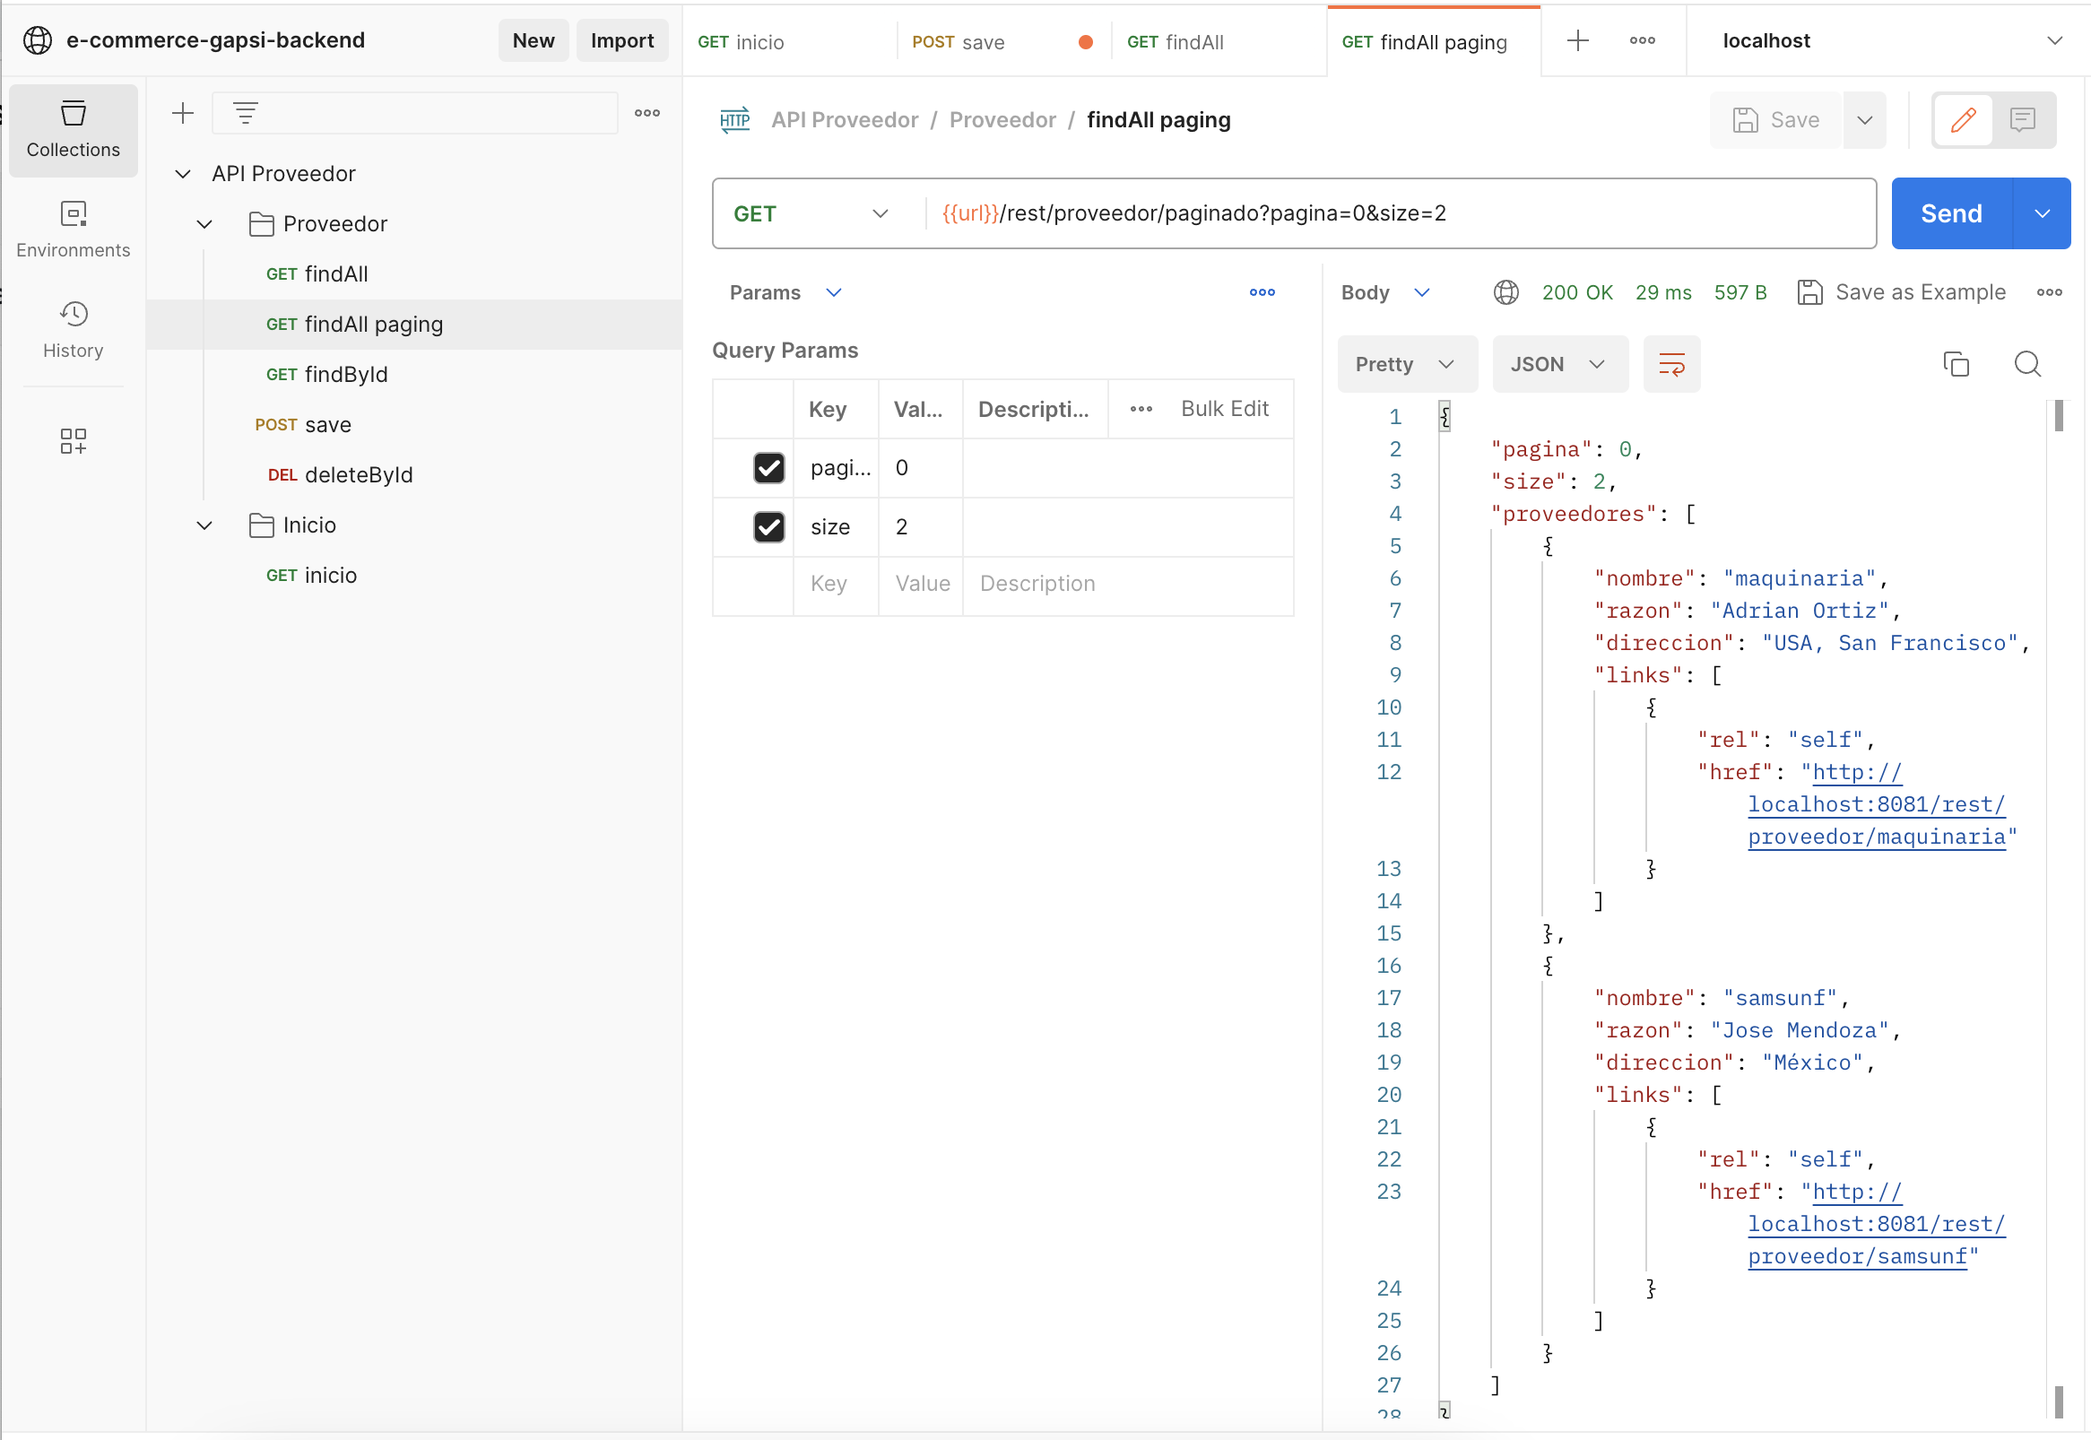
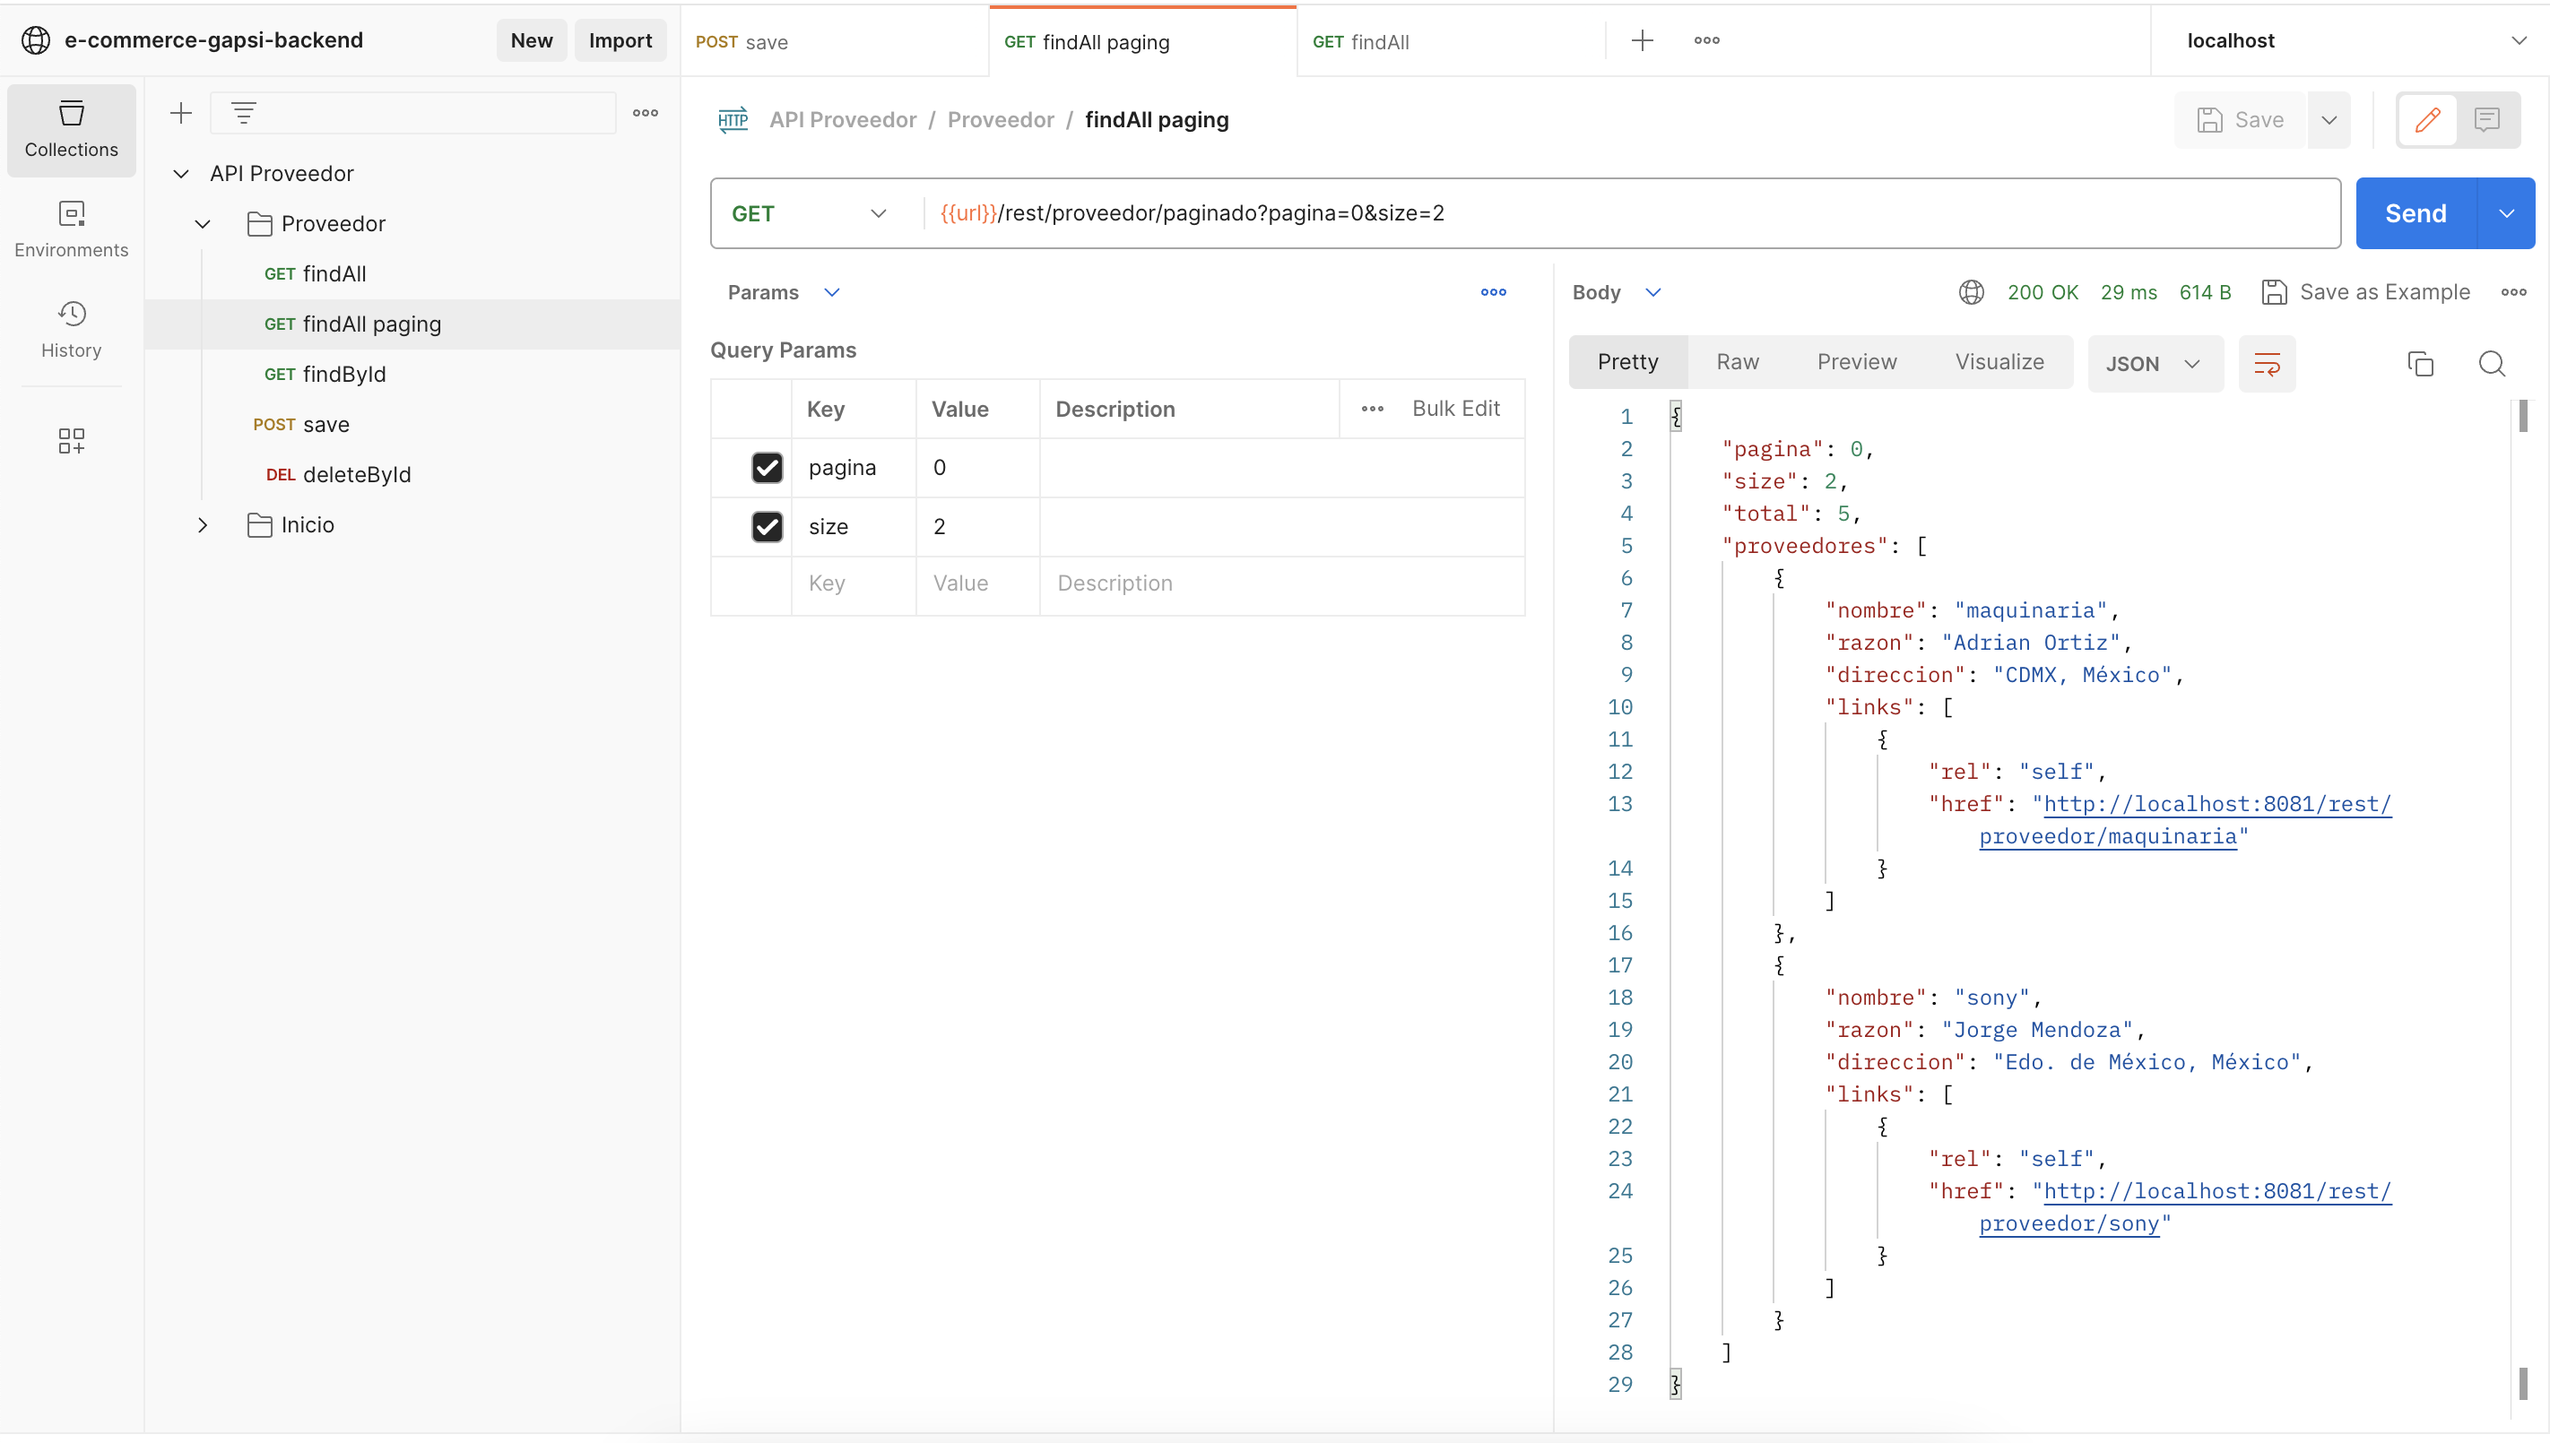
Add import data base and Total rows

diff --git a/src/main/java/com/gapsi/ecommerce/config/ReadJson.java b/src/main/java/com/gapsi/ecommerce/config/ReadJson.java
@@ -1,0 +1,56 @@
+package com.gapsi.ecommerce.config;
+
+import com.fasterxml.jackson.core.type.TypeReference;
+import com.fasterxml.jackson.databind.ObjectMapper;
+import com.gapsi.ecommerce.component.AppProperties;
+import com.gapsi.ecommerce.data.ProveedorData;
+import com.gapsi.ecommerce.domain.Proveedor;
+import com.gapsi.ecommerce.service.IService;
+import org.springframework.beans.factory.annotation.Autowired;
+import org.springframework.beans.factory.annotation.Value;
+import org.springframework.boot.CommandLineRunner;
+import org.springframework.context.annotation.Configuration;
+import org.springframework.core.env.Environment;
+import org.springframework.util.ResourceUtils;
+
+import java.io.File;
+import java.io.FileInputStream;
+import java.io.InputStream;
+import java.util.ArrayList;
+import java.util.List;
+
+@Configuration
+public class ReadJson implements CommandLineRunner {
+
+    @Autowired
+    AppProperties appProperties;
+
+    @Autowired
+    private IService<Proveedor> proveedorIService;
+
+    @Override
+    public void run(String... args) throws Exception {
+
+        if (proveedorIService.getTotalRows() == 0) {
+
+            try {
+                TypeReference<List<ProveedorData>> typeReference = new TypeReference<List<ProveedorData>>() {};
+                InputStream inputStream = TypeReference.class.getResourceAsStream("/bd/bd.json");
+
+                List<ProveedorData> proveedores = new ObjectMapper().readValue(inputStream, typeReference);
+
+                if (proveedores != null && !proveedores.isEmpty()) {
+                    List<Proveedor> proveedorList = new ArrayList<>();
+                    proveedores.forEach(proveedor -> proveedorList.add(new Proveedor(proveedor.getNombre().toLowerCase(), proveedor.getRazon(), proveedor.getDireccion())));
+                    proveedorList.forEach(System.out::println);
+                    List<Proveedor> savedBookList = proveedorIService.saveAll(proveedorList);
+                    System.out.println("Total registros en JSON: " + savedBookList.size());
+                }
+
+            } catch (Exception ex) {
+                System.out.println("Error al leer Json - " + ex.getMessage());
+
+            }
+        }
+    }
+}

diff --git a/src/main/java/com/gapsi/ecommerce/controller/ProveedorControllerRest.java b/src/main/java/com/gapsi/ecommerce/controller/ProveedorControllerRest.java
@@ -52,6 +52,8 @@ public class ProveedorControllerRest {
             @RequestParam(name = "size", defaultValue = "8") int size
     ) {
 
+        log.info("Proveedor - Consultar todos con Paging");
+
         Iterable<Proveedor> proveedores = proveedorIService.findAll(PageRequest.of(pagina, size));
         List<Proveedor> response = new ArrayList<>();
         // proveedores.forEach(response::add);
@@ -63,6 +65,7 @@ public class ProveedorControllerRest {
         ProveedorPaggingResponse paginado = new ProveedorPaggingResponse();
         paginado.setPagina(pagina);
         paginado.setSize(size);
+        paginado.setTotal(proveedorIService.getTotalRows());
         paginado.setProveedores(response);
 
         return new ResponseEntity<>(paginado, HttpStatus.OK);

diff --git a/src/main/java/com/gapsi/ecommerce/repository/ProveedorRepository.java b/src/main/java/com/gapsi/ecommerce/repository/ProveedorRepository.java
@@ -2,6 +2,7 @@ package com.gapsi.ecommerce.repository;
 
 import com.gapsi.ecommerce.domain.Proveedor;
 import org.springframework.data.jpa.repository.JpaRepository;
+import org.springframework.data.jpa.repository.Query;
 import org.springframework.data.repository.query.Param;
 import org.springframework.data.rest.core.annotation.RepositoryRestResource;
 
@@ -9,5 +10,8 @@ import org.springframework.data.rest.core.annotation.RepositoryRestResource;
 public interface ProveedorRepository extends JpaRepository<Proveedor, String> {
 
     Proveedor findByNombre(@Param("nombre") String nombre);
+
+    @Query(value = "select count(*) from Proveedor", nativeQuery = true)
+    int getTotalRows();
 
 }

diff --git a/src/main/java/com/gapsi/ecommerce/response/ProveedorPaggingResponse.java b/src/main/java/com/gapsi/ecommerce/response/ProveedorPaggingResponse.java
@@ -9,6 +9,7 @@ public class ProveedorPaggingResponse {
 
     private int pagina;
     private int size;
+    private int total;
     private List<Proveedor> proveedores = new ArrayList<>();
 
     public ProveedorPaggingResponse() {};
@@ -33,6 +34,14 @@ public class ProveedorPaggingResponse {
 
     public void setSize(int size) {
         this.size = size;
+    }
+
+    public int getTotal() {
+        return total;
+    }
+
+    public void setTotal(int total) {
+        this.total = total;
     }
 
     public List<Proveedor> getProveedores() {

diff --git a/src/main/java/com/gapsi/ecommerce/service/impl/ProveedorServiceImpl.java b/src/main/java/com/gapsi/ecommerce/service/impl/ProveedorServiceImpl.java
@@ -88,4 +88,9 @@ public class ProveedorServiceImpl implements IService<Proveedor> {
 
         }
     }
+
+    @Override
+    public int getTotalRows() {
+        return proveedorRepository.getTotalRows();
+    }
 }

diff --git a/src/main/java/com/gapsi/ecommerce/service/IService.java b/src/main/java/com/gapsi/ecommerce/service/IService.java
@@ -14,5 +14,6 @@ public interface IService<T> {
     List<T> saveAll(List<T> t);
     Boolean deleteById(String nombre);
     void updatedDataJson();
+    int getTotalRows();
 
 }

diff --git a/README.md b/README.md
@@ -1,7 +1,7 @@
 # Gapsi - Back-end - Spring Boot
 Back-end basado en Spring Boot
 
-**Características:*
+**Características:**
 * GET API Inicio
 * CRUD API Proveedor
 
@@ -22,7 +22,12 @@ Back-end basado en Spring Boot
     
 * Url base de la API `http://localhost:8081/rest/proveedor`
 
-## Imagenes del proyecto
+## API
+* Descargar Postman e importar los archivos descriptivos de la API:
+
+    - Postman: Environment [`localhost.postman_environment.json`](https://github.com/adrianortiz/e-commerce-gapsi-backend/blob/main/src/main/resources/images/localhost.postman_environment.json)
+    - Postman: API [`API_Proveedor.postman_collection.json`](https://github.com/adrianortiz/e-commerce-gapsi-backend/blob/main/src/main/resources/images/API_Proveedor.postman_collection.json)
+
 ![API](https://github.com/adrianortiz/e-commerce-gapsi-backend/blob/main/src/main/resources/images/img-01-backend.png)
 ![API](https://github.com/adrianortiz/e-commerce-gapsi-backend/blob/main/src/main/resources/images/img-02-backend.png)
 ![API](https://github.com/adrianortiz/e-commerce-gapsi-backend/blob/main/src/main/resources/images/img-03-backend.png)
